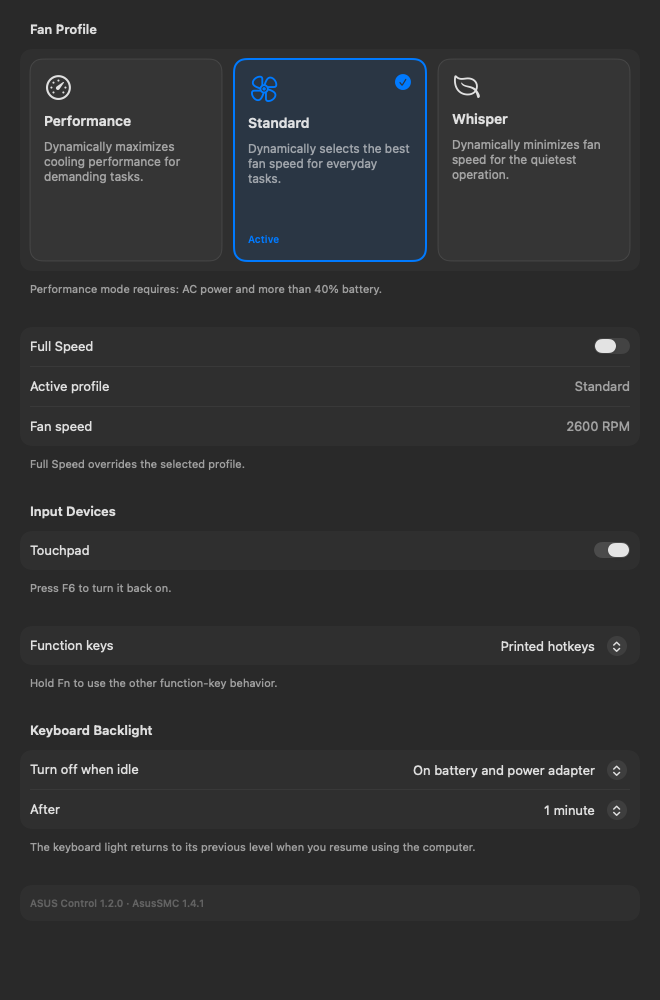
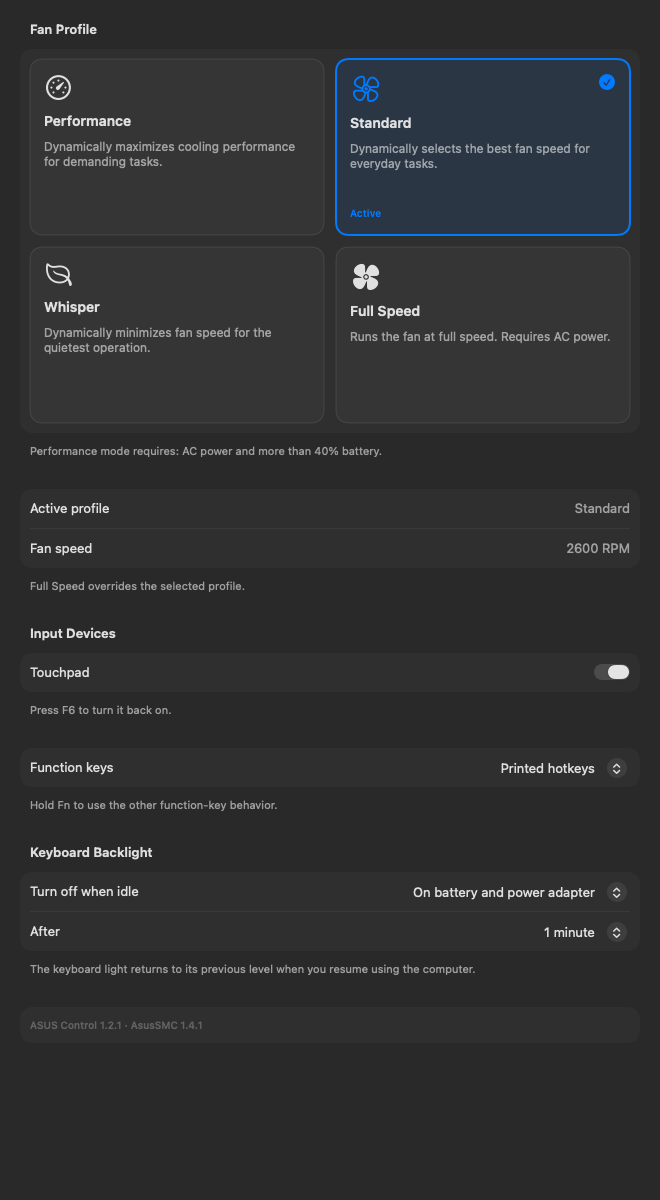
Arrange fan controls as four cards in ASUS Control 1.2.1
Place Performance and Standard above Whisper and Full Speed in a 2x2 grid. Replace the separate Full Speed switch with a card using the existing profile command, active styling, AC restriction and lower-right loading indicator.

Refresh the product screenshot and verify card geometry, resizing and loading cleanup with offscreen fixtures.

diff --git a/Projects/ASUS/AsusControl/Source/SettingsView.swift b/Projects/ASUS/AsusControl/Source/SettingsView.swift
@@ -17,7 +17,6 @@ private final class SettingsModel: ObservableObject {
     func flag(_ values: [String: Any], _ key: String) -> Bool { (values[key] as? NSNumber)?.boolValue ?? false }
     func number(_ values: [String: Any], _ key: String) -> Int { (values[key] as? NSNumber)?.intValue ?? 0 }
     var devices: Bool { !busy && flag(hardware, "DeviceControlAllowed") }
-    var fullSpeedAvailable: Bool { devices && flag(system,"PowerSourceKnown") && flag(system,"ACPower") }
     func bool(_ key: String) -> Binding<Bool> {
         Binding(get: { self.flag(self.preferences,key) }, set: { self.actions?.changeSetting(key,value:NSNumber(value:$0)) })
     }
@@ -30,7 +29,7 @@ private final class SettingsModel: ObservableObject {
     }
     func profileAllowed(_ profile: Int, onAC: Bool? = nil) -> Bool {
         let ac = onAC ?? flag(system,"ACPower")
-        if profile == 3 { return ac || flag(hardware,"FullSpeedOnBattery") }
+        if profile == 3 { return flag(system,"PowerSourceKnown") && ac }
         if profile != 2 { return true }
         if !ac && !flag(hardware,"PerformanceOnBattery") { return false }
         // Configuring an AC policy is allowed on battery; it will apply only
@@ -105,21 +104,21 @@ private struct SettingsScreen: View {
     private var power: some View {
         Group {
             Section {
-                HStack(spacing:12) {
-                    profileCard(2,title:"Performance",symbol:"speedometer",detail:"Dynamically maximizes cooling performance for demanding tasks.")
-                    profileCard(0,title:"Standard",symbol:"fan",detail:"Dynamically selects the best fan speed for everyday tasks.")
-                    profileCard(1,title:"Whisper",symbol:"leaf",detail:"Dynamically minimizes fan speed for the quietest operation.")
+                VStack(spacing:12) {
+                    HStack(spacing:12) {
+                        profileCard(2,title:"Performance",symbol:"speedometer",detail:"Dynamically maximizes cooling performance for demanding tasks.")
+                        profileCard(0,title:"Standard",symbol:"fan",detail:"Dynamically selects the best fan speed for everyday tasks.")
+                    }
+                    HStack(spacing:12) {
+                        profileCard(1,title:"Whisper",symbol:"leaf",detail:"Dynamically minimizes fan speed for the quietest operation.")
+                        profileCard(3,title:"Full Speed",symbol:"fan.fill",detail:"Runs the fan at full speed. Requires AC power.")
+                    }
                 }.listRowInsets(EdgeInsets(top:0,leading:0,bottom:0,trailing:0)).listRowBackground(Color.clear)
             } header: { Text("Fan Profile") } footer: {
                 Text("Performance mode requires: AC power and more than 40% battery.")
                     .fixedSize(horizontal:false,vertical:true)
             }
             Section {
-                loadingRow("FullSpeed") {
-                    Toggle("Full Speed",isOn:Binding(get:{ model.number(hardware,"FanRequestedMode") == 1 },set:{ enabled in
-                        model.actions?.changeSetting("FullSpeed",value:NSNumber(value:enabled))
-                    })).disabled(!model.fullSpeedAvailable).opacity(model.fullSpeedAvailable ? 1 : 0.4)
-                }
                 LabeledContent("Active profile",value:model.currentProfile)
                 LabeledContent("Fan speed",value:model.flag(hardware,"FanReadingValid") ? "\(model.number(hardware,"FanRPM")) RPM" : "Unavailable")
             } footer: {
@@ -129,7 +128,8 @@ private struct SettingsScreen: View {
         }
     }
     private func profileCard(_ profile:Int,title:String,symbol:String,detail:String) -> some View {
-        let selected=model.flag(hardware,"ThermalProfileValid") && model.number(hardware,"ThermalProfile") == profile && model.number(hardware,"FanRequestedMode") != 1
+        let fullSpeed = model.number(hardware,"FanRequestedMode") == 1
+        let selected = profile == 3 ? fullSpeed : model.flag(hardware,"ThermalProfileValid") && model.number(hardware,"ThermalProfile") == profile && !fullSpeed
         return Button {
             model.actions?.changeSetting("QuickProfile",value:NSNumber(value:profile))
         } label: {
@@ -143,7 +143,7 @@ private struct SettingsScreen: View {
                 Text(detail).font(.system(size:12)).foregroundStyle(.secondary).fixedSize(horizontal:false,vertical:true)
                 Spacer(minLength:0)
                 if selected { Text("Active").font(.caption.weight(.semibold)).foregroundStyle(Color.accentColor) }
-            }.padding(14).frame(maxWidth:.infinity,minHeight:202,maxHeight:202,alignment:.topLeading)
+            }.padding(14).frame(maxWidth:.infinity,minHeight:176,maxHeight:176,alignment:.topLeading)
                 .background(selected ? Color.accentColor.opacity(0.10) : Color.primary.opacity(0.035),in:RoundedRectangle(cornerRadius:12))
                 .overlay(RoundedRectangle(cornerRadius:12).stroke(selected ? Color.accentColor : Color(nsColor:.separatorColor),lineWidth:selected ? 2 : 1))
                 .contentShape(RoundedRectangle(cornerRadius:12))

diff --git a/Projects/ASUS/AsusControl/Tests/pane-test.m b/Projects/ASUS/AsusControl/Tests/pane-test.m
@@ -52,14 +52,14 @@ int main(int argc,const char **argv) {
     }
     // Neutral product screenshot, separate from tinted-host regression fixtures.
     container.layer.backgroundColor=[NSColor colorWithCalibratedWhite:0.12 alpha:1].CGColor;
-    [window setContentSize:NSMakeSize(660,1000)];
+    [window setContentSize:NSMakeSize(660,1200)];
     snapshot(container,[[NSString stringWithUTF8String:argv[2]]stringByAppendingPathComponent:@"ASUS-Control.png"]);
     [pane setValue:@{@"ACPower":@NO,@"PowerSourceKnown":@YES,@"BatteryKnown":@YES,@"BatteryPercent":@75} forKey:@"system"];
     [pane performSelector:@selector(displayStatus)];
     [window setContentSize:NSMakeSize(660,1000)];
     snapshot(container,[[NSString stringWithUTF8String:argv[2]]stringByAppendingPathComponent:@"Pane-Battery-Dark.png"]);
     [window setContentSize:NSMakeSize(660,1600)];
-    for(NSString *control in @[@"QuickProfile",@"FullSpeed",@"Touchpad",@"FnHotkeys",@"BacklightTimeout",@"all"]) {
+    for(NSString *control in @[@"QuickProfile",@"Touchpad",@"FnHotkeys",@"BacklightTimeout",@"all"]) {
         [pane setValue:@YES forKey:@"busy"];
         [pane setValue:control forKey:@"pendingControl"];
         [pane setValue:@1 forKey:@"pendingValue"];
@@ -69,12 +69,31 @@ int main(int argc,const char **argv) {
         assert(indicator.isIndeterminate && indicator.style==NSProgressIndicatorStyleSpinning);
         assert(fabs(indicator.bounds.size.width-16)<1 && fabs(indicator.bounds.size.height-16)<1);
         NSRect rect=[indicator convertRect:indicator.bounds toView:view];
-        assert(NSMidX(rect)>view.bounds.size.width*0.8); // Trailing side of every control/card.
+        if(![control isEqual:@"QuickProfile"]) assert(NSMidX(rect)>view.bounds.size.width*0.8); // Rows remain trailing; cards use their own column.
 
         snapshot(container,[[NSString stringWithUTF8String:argv[2]]stringByAppendingPathComponent:[NSString stringWithFormat:@"Pane-Loading-%@.png",control]]);
         [pane setValue:@NO forKey:@"busy"];
         [pane performSelector:@selector(displayStatus)];settle(view);assert(spinners(view).count==0);
     }
-    puts("PASS: single native scrolling pane, no tabs, host resizing, light/dark layout and matching 16pt native spinners with completion cleanup. No firmware writes.");
+    // Each card owns one matching lower-right spinner, positioned in a 2×2 grid.
+    [pane setValue:@{@"ACPower":@YES,@"PowerSourceKnown":@YES,@"BatteryKnown":@YES,@"BatteryPercent":@75} forKey:@"system"];
+    NSPoint positions[4];unsigned i=0;
+    for(NSNumber *profile in @[@2,@0,@1,@3]) {
+        [pane setValue:@YES forKey:@"busy"];[pane setValue:@"QuickProfile" forKey:@"pendingControl"];
+        [pane setValue:profile forKey:@"pendingValue"];[pane performSelector:@selector(displayStatus)];settle(view);
+        NSArray *indicators=spinners(view);assert(indicators.count==1);
+        NSProgressIndicator *indicator=indicators.firstObject;
+        NSRect rect=[indicator convertRect:indicator.bounds toView:view];positions[i++]=NSMakePoint(NSMidX(rect),NSMidY(rect));
+    }
+    assert(fabs(positions[0].x-positions[2].x)<2 && fabs(positions[1].x-positions[3].x)<2);
+    assert(positions[1].x-positions[0].x>200);
+    assert(fabs(positions[0].y-positions[1].y)<2 && fabs(positions[2].y-positions[3].y)<2);
+    assert(fabs(positions[0].y-positions[2].y)>150);
+    [pane setValue:@NO forKey:@"busy"];
+    NSMutableDictionary *full=[[pane valueForKey:@"hardware"]mutableCopy];full[@"FanRequestedMode"]=@1;
+    [pane setValue:full forKey:@"hardware"];[pane performSelector:@selector(displayStatus)];
+    [window setContentSize:NSMakeSize(660,1200)];
+    snapshot(container,[[NSString stringWithUTF8String:argv[2]]stringByAppendingPathComponent:@"Pane-Full-Speed.png"]);
+    puts("PASS: 2×2 fan cards including Full Speed, single native scrolling pane, no tabs, host resizing, light/dark layout and matching 16pt native spinners with completion cleanup. No firmware writes.");
  }
 }

diff --git a/docs/DEVELOPMENT-CONTINUATION.md b/docs/DEVELOPMENT-CONTINUATION.md
@@ -1,18 +1,19 @@
 # ASUS Control continuation — 2026-11-15
 
 Public repository `samuelnotfound/Asus-X1605VA-Hackintosh-Tahoe`.
-Project `Projects/ASUS/AsusControl`, pane/CLI/agent version in VERSION (now1.2.0). Keep software names
+Project `Projects/ASUS/AsusControl`, pane/CLI/agent version in VERSION (now1.2.1). Keep software names
 broad. Only X1605VA BIOS305 wiring is currently profiled. Do not publish private
 diagnostics, identities, raw ACPI tables, ignored backups or transcripts.
 
 ## Current user decisions
 
 - One transparent native SwiftUI grouped scrolling form; no tabs/dashboard.
-- Keep three large fan-profile cards and use the user's Windows description
+- Use four large cards in a 2×2 grid (Performance/Standard, Whisper/Full Speed);
+  Full Speed replaces the separate switch. Keep the fan-profile cards and use the user's Windows description
   text: Dynamic Performance maximizes cooling for demanding tasks, Standard
   dynamically selects fan speed for everyday tasks, Whisper minimizes noise.
 - Remove duplicate inner ASUS Control heading and Current function-key mode row.
-- Full Speed separate switch, disabled/gray without AC. Active profile remains
+- Full Speed card disabled/gray without AC. Active profile remains
   explicit/legible independently of whether a profile is available to select.
 - No profile-switching UI, custom AC/battery rules or Low Power Mode override.
 - Latest correction supersedes earlier restore/auto rules: remove the
@@ -241,3 +242,13 @@ repository LICENSE is an evaluation agreement, not blanket reuse permission.
 Charging support is retired. Any later source reuse needs
 license-specific review and required notices. The feature idea is a reference,
 not permission to copy its expression.
+
+## 1.2.1 fan card grid
+
+User requested a 2×2 layout with Full Speed alongside the three profiles.
+Performance/Standard form the first row; Whisper/Full Speed the second. All
+use the same active styling and lower-right loading indicator. Full Speed
+requires known AC power, and choosing any normal profile returns to automatic
+firmware regulation. Existing QuickProfile=3 executes Full Speed; no new
+firmware commands, policy changes or driver update. Removed the separate
+Full Speed switch. Offscreen resizing/loading fixtures cover the new grid.

diff --git a/AGENTS.md b/AGENTS.md
@@ -11,7 +11,8 @@ Read `docs/DEVELOPMENT-CONTINUATION.md` before changing this repository.
 - Use native SwiftUI Form with grouped rows, leading labels and trailing
   controls, following the macOS Appearance/Desktop & Dock references. Avoid
   duplicate fan controls; fit the host size and use one scrolling form. Restore
-  three large Performance/Standard/Whisper cards. One pane, no tabs, dashboard,
+  a 2×2 card grid: Performance/Standard, then Whisper/Full Speed.
+  Full Speed replaces its separate switch; disable it without AC. One pane, no tabs, dashboard,
   profile-switching menu, per-source profile pickers or Low Power Mode rules. The
   former AutoPerformanceOnAC switch is removed and its saved flag ignored.
   Performance requires AC and>40%; return to Standard on restart, AC loss or
@@ -33,7 +34,7 @@ Read `docs/DEVELOPMENT-CONTINUATION.md` before changing this repository.
   No Applying settings banner. Clear indicators after completion/failure; retain
   actual errors. Preserve native grouping and the existing card design.
 - No duplicate content title or current-Fn-mode row. Keep one Fn selector.
-  Card titles are exactly Performance, Standard, Whisper; preserve descriptions.
+  Card titles are exactly Performance, Standard, Whisper, Full Speed; preserve descriptions.
 - Deliberate Fn selections send once despite a matching firmware mirror.
   For reliable interfaces, poll with a bounded delay and adopt late confirmation.
   The known BIOS305 Fn mirror is unreliable: record FnAcceptedIntent and result
